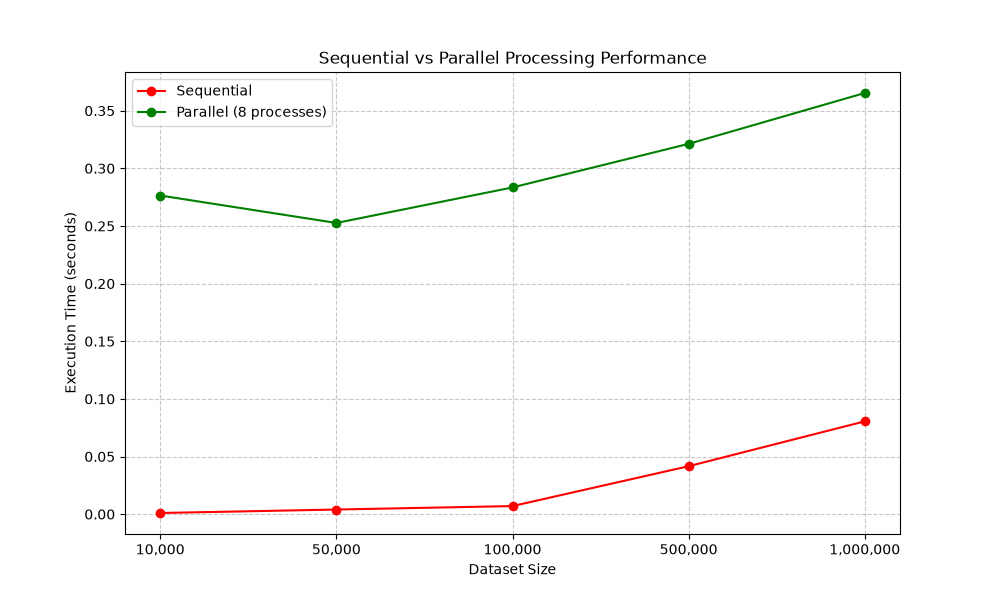
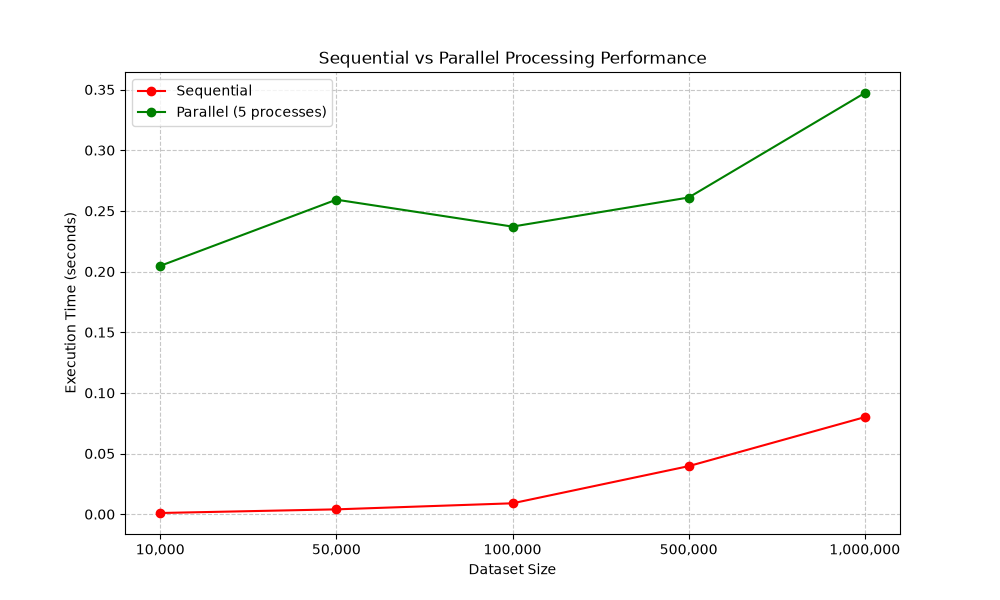
Update performance metrics and improve code clarity in data generation and performance scripts

diff --git a/ParallelTaskProcessing/performance.py b/ParallelTaskProcessing/performance.py
@@ -5,7 +5,7 @@ from sequential import run_sequential
 from parallel import run_parallel
 
 def speedup(seq_time, par_time):
-    """Calculate how many times faster the parallel execution is."""
+    
     if par_time <= 0: return 0
     return seq_time / par_time
 
@@ -14,13 +14,13 @@ def verify(seq_result, par_result):
     for k in keys:
         if seq_result[k] != par_result[k]:
             return False
-    # Check average with slight tolerance for float rounding
+
     if abs(seq_result["average"] - par_result["average"]) > 0.01:
         return False
     return True
 
 def run_benchmark(processes):
-    """Run tests across 5 different dataset sizes as required."""
+    
     sizes = [10_000, 50_000, 100_000, 500_000, 1_000_000]
     rows = []
     
@@ -52,7 +52,7 @@ def save_csv(rows, folder="results"):
     return filepath
 
 def save_graph(rows, processes, folder="results"):
-    """Generate and save a line graph comparing execution times."""
+
     try:
         import matplotlib.pyplot as plt
     except ImportError:

diff --git a/ParallelTaskProcessing/data_generator.py b/ParallelTaskProcessing/data_generator.py
@@ -1,6 +1,5 @@
 import random
 
 def generate_data(size):
-    """Generate a list of random numbers of the given size."""
-    # Using numbers 1 to 100 for simplicity and easy math
+    # Generate a list of random integers between 1 and 100.
     return [random.randint(1, 100) for _ in range(size)]
